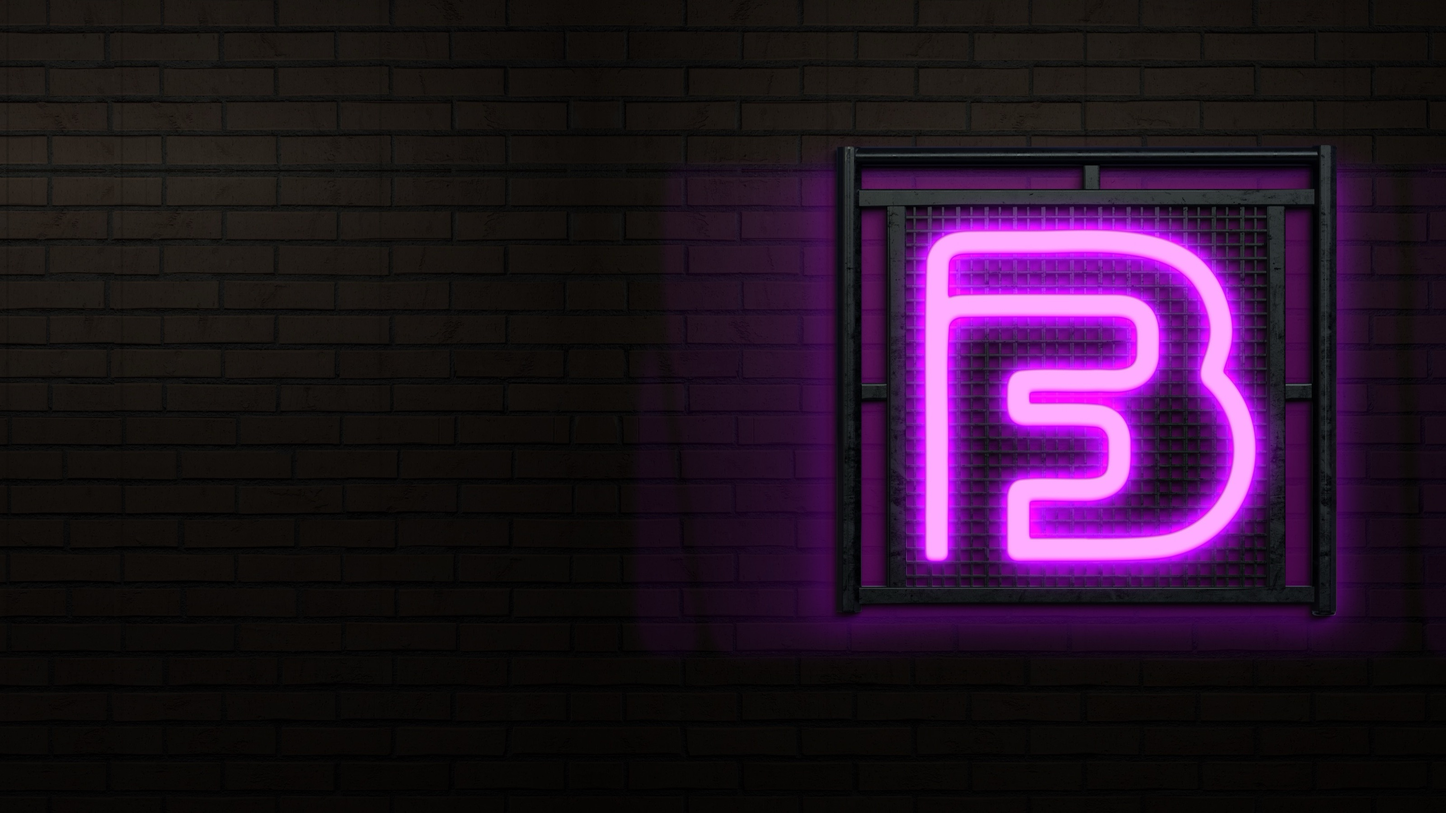
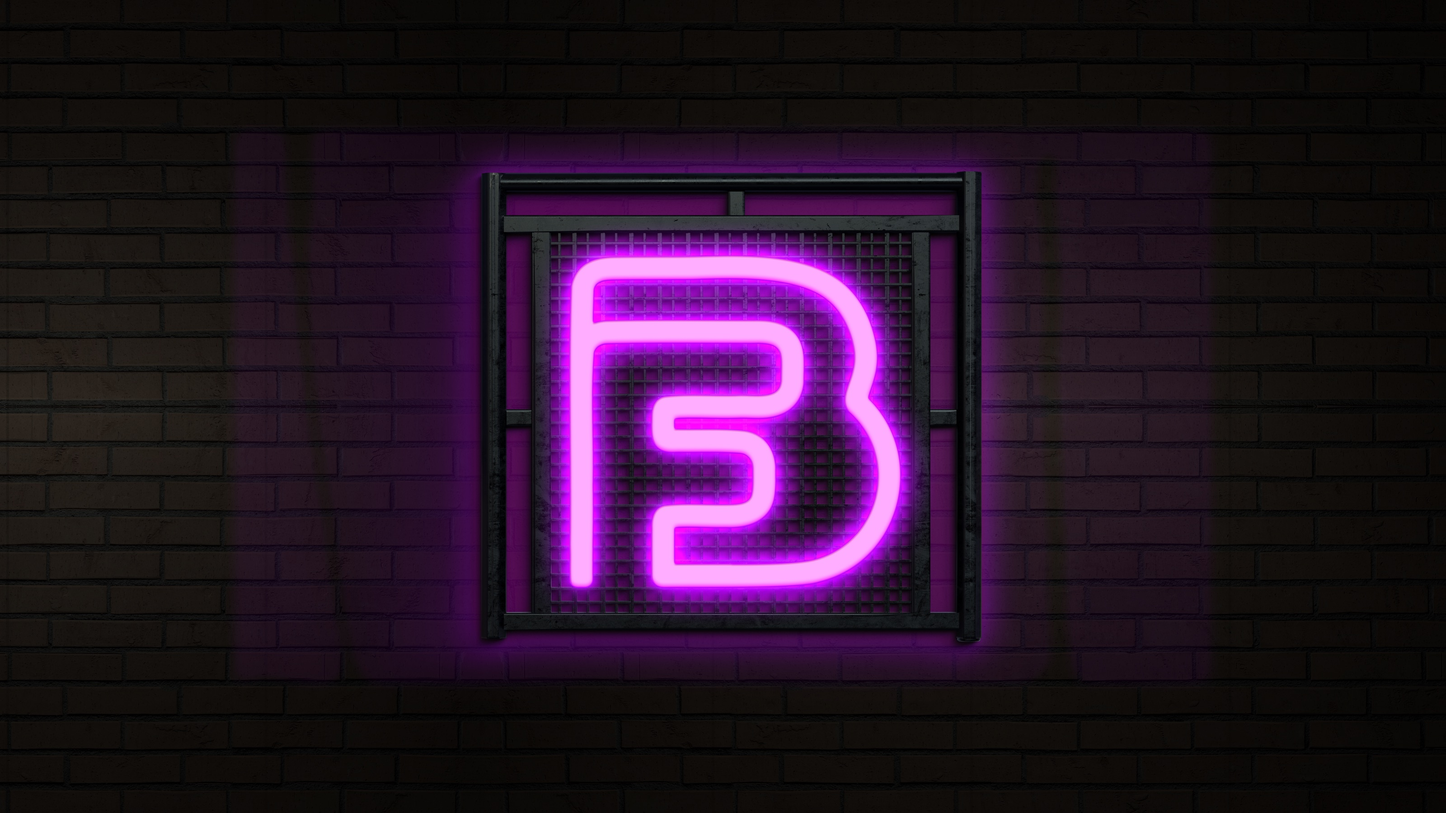
Brand identity: neon opens Identity on its own, centered grid_02 render, concept copy on its own slide

diff --git a/brand-identity/index.html b/brand-identity/index.html
@@ -149,9 +149,11 @@ body { padding-top: var(--pad); }
 
       <!-- 02 Identity. A full-bleed mockup goes in a cover slide as <img class="slide-media">. A square mockup goes in .slide-img-lead. A template goes in the .slide-img inside its Instagram frame or its .slide-visual. The Bonus slides are concepts outside the scope of work. -->
       <article class="deck-chapter" id="identity" data-name="Identity" data-num="02" aria-label="02 Identity">
-        <div class="deck-slide slide-cover slide-dark bare">
-          <!-- Neon sign mockup, the wall extended so the sign sits right and the concept copy sits on the wall at left -->
+        <div class="deck-slide slide-cover bare">
+          <!-- Neon sign mockup, full bleed, unlabeled. Opens the section on its own. -->
           <img class="slide-media" src="../_assets/mockups/neon.jpg" alt="">
+        </div>
+        <div class="deck-slide slide-dark">
           <div class="slide-head"><span class="slide-num">02</span> Identity <span class="slide-head-sub">Concept</span></div>
           <div class="slide-lede long">
             <p><strong>Local Art. Surprising Places.</strong></p>
